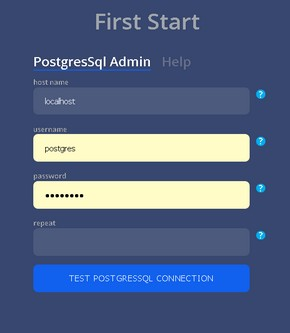
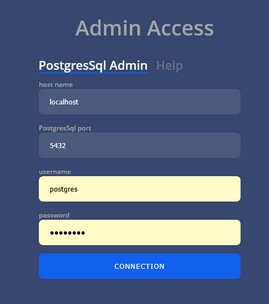
update documentation

diff --git a/README.md b/README.md
@@ -1,108 +1,95 @@
 ![Logo](https://raw.githubusercontent.com/Mario-35/Stean/main/assets/images/logo.png "Logo")
 
-# SensorThings Enhanced API Node [![version](https://img.shields.io/badge/version-0.9.4-red)](https://github.com/Mario-35/Stean/blob/main/realease.md) [![licence](https://img.shields.io/badge/licence-MIT-red)](https://github.com/Mario-35/Stean?tab=MIT-1-ov-file#readme)
+# SensorThings Enhanced API Node [![version](https://img.shields.io/badge/version-0.9.9-red)](https://github.com/Mario-35/Stean/blob/main/realease.md) [![licence](https://img.shields.io/badge/licence-MIT-red)](https://github.com/Mario-35/Stean?tab=MIT-1-ov-file#readme)
 
 ## Installation / Deploy  [![node](https://img.shields.io/badge/NodeJs-%20>16-blue)](https://nodejs.org/) [![postgreSql](https://img.shields.io/badge/PostgreSQL-%20>14-blue)](https://www.postgresql.org/) [![postGIS](https://img.shields.io/badge/postGIS-%20>3-blue)](https://postgis.net/) [![pm2](https://img.shields.io/badge/pm2-%20>5-blue)](https://pm2.keymetrics.io/)
 
 
 You must have curl installed on your server.
 
-```curl -fsSL https://raw.githubusercontent.com/Mario-35/Stean/main/scripts/stean.sh -o stean.sh && chmod +x stean.sh && ./stean.sh```
-
 <details>
     <summary>If you need help</summary>
-The menu differs depending on the progress of the installation but the header and footer of the menu display certain states:
 
-![steanSh](https://raw.githubusercontent.com/Mario-35/Stean/main/assets/images/steanSh.jpg "steanSh")
+# Install cURL on Linux/Windows/MacOSX
 
-- Path: the installation path of the API
-      The best proctice is to install on current folder.
-- The version of stean installed
-- The state of stean (RUN or STOP)
-    The best practice is to create script run and use it by exit this script.
-- At the bottom of the menu the version of node and postgresSql
-- Quit to exit installation script
-- "Indicate path" or "Change path" : indicates the installation path of the api
-- "Check postGis" : test the existence and the version of postGis
-- "Install all" : Install stean after check if nodeJs, Postgres and pm2 are installed
-- "Back to previous" : If a backup is present install it instead of actual installed stean
-- "Create / Recreate run script" : create run.sh with all parameters
-- "Run / Stop stean" : run or stop API (if configuration.json is found)
+## Linux installation
 
+1.Access the computer's terminal.
+2.Run the command below in the terminal:
+
+```
+sudo apt-get install curl
+```
+3.If a password is required after running the command, please enter your computers' user password to continue.Then, wait until the installation finishes.
+
+Now you are able to use cURL from your Linux PC!
+
+## Windows Installation 
+
+1.Enter and access the URL https://curl.haxx.se/ to download the curl executable wizard.
+
+2.Then, on the "Select Operating System" section, select Windows.Then, continue selecting the parameters required based on your version of Windows.
+
+3.Once you've finished the on-screen steps, download the ZIP file generated.To download it, simply press "Download".
+
+4.Next, open the .zip file and enter to the folder called "src".Inside the src folder you will find the curl executable file.At this point, you need to copy the executable file and paste it inside a local folder on your PC to be able to run the curl.
+
+NOTE: To get a better understanding of the following steps, let's assume the executable file is located inside a folder named "programs".
+
+6.From the Command Prompt, enter to the location where the executable file was pasted.To enter to the folder you need to use the cd command following the location of the folder which contains the executable file as you can see below.
+
+```
+cd programs
+```
+Expected location to be shown
+ 
+```
+C:\Users\{your_user}\programs>
+```
+
+7.To verify if you are able to run curl commands with the command prompt, test its functionality by executing the command below:
+
+```
+curl --help
+```
+
+At this point, you should receive all the help info related to the curl command.
+
+Now you are able to use cURL from your Windows PC!
+
+ 
+## MacOSX Installation
+
+1.Access the computer's terminal.
+2.Run the command below in the terminal:
+```
+ruby -e "$(curl -fsSL https://raw.githubusercontent.com/Homebrew/install/master/install)" < /dev/null 2> /dev/null
+```
+3.If a password is required after running the command, please enter your Mac's user password to continue.Then, wait until the installation finishes.
+4.Run the command below in the terminal:
+```
+brew install curl
+```
+
+Now you are able to use cURL from your Mac PC!
 </details>
+
+
+
+```curl -fsSL https://raw.githubusercontent.com/Mario-35/Stean/main/scripts/stean.sh -o stean.sh && chmod +x stean.sh && ./stean.sh```
+
+
 
 ## STEAN configuration
 
 after install : (if localhost) 
 http://localhost:8029/ show the documentation
-http://localhost:8029/i (any word after will show first install)
+http://localhost:8029/admin (to admin stean and install services)
 
 The configuration.json file must be found by the api in the configuration folder if the file not exist the api redirect you to th first install page to create that file with your firs service :
 
 ![firstStart](https://raw.githubusercontent.com/Mario-35/Stean/main/assets/images/firstStart.jpg "firstStart")
 
-### You can create manually your configuration.json file :
-```json5
-{
-    // admin must be in configuration file
-    "admin": {
-        "name": "admin",
-        "ports": {
-            "http": 8029, // http port
-            "tcp": 9000, // tcp port for mqtt
-            "ws": 1883 // web socket
-        },
-        // postgresSql Connection // with admin rights (create database rights and user ...)
-        "pg": {
-            "host": "localhost",
-            "port": 5432,
-            "user": "postgres",
-            "password": "password", // ADMIN password (with rights to create DB)
-            "database": "postgres",
-            "retry": 2
-        }
-    },
-    "myService": { // service name        
-        "name": "myService", // name of the service SAME as key name
-        "port": 8037, // not used
-        // postgresSql Connection 
-        "pg": {
-            "host": "localhost",
-            "port": 5432,
-            "user": "myname", // user to create
-            "password": "myPass",
-            //  name of the database (if not exit a blank database will be create)
-            "database": "myservice",
-            "retry": 2
-        },
-        "apiVersion": "v1.1", // model version 1.0 ou 1.1
-        "date_format": "DD/MM/YYYY hh:mi:ss", // date format in jsons
-        "nb_page": 200, // pagination number by page
-        // list of alias name
-        "alias": [
-            ""
-        ],
-        // etensions of the service
-        "extensions": [
-            "base", // SensorThings core
-            "multiDatastream", // SensorThings Multidatastream Extension
-            "lora", // Lora Extension
-            "logs", // Logs Extension
-            "file" // File csv serve Extension
-            "users" // Users Extension
-        ],
-        "options": [
-            "highPrecision", // float8 will be used instead of float4
-            "canDrop", // database can be destroy (usefull in testing phose)
-            "stripNull",  // null value are not visible,
-            "forceHttps" // force api to add s to http of this service,
-        ]
-    }, 
-    "myServiceNumber2": {
-        ...
-    }
-}
-```
 
 ## use on local windows as production (for testing) use :  [script](https://raw.githubusercontent.com/Mario-35/Stean/main/scripts/install.ps1) as install.ps1
 
@@ -111,11 +98,7 @@ The configuration.json file must be found by the api in the configuration folder
 1. Fork/Clone : <https://github.com/Mario-35/Stean.git>
 2. Install dependencies : npm install
 3. Fire up Postgres WITH Postgis on the default ports
-4. Make configuration.json file or use first install (the file will be automatically create)
-5. npm run dev for dev, npm run build (vs script package.json)
-6. If database not exists the program create it. note that db test is automaticly create
-
-
+4. npm run dev for dev, npm run build (vs script package.json)
 
 ## Want to use this with docker
 
